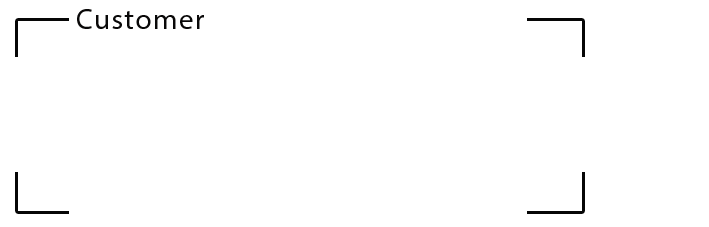
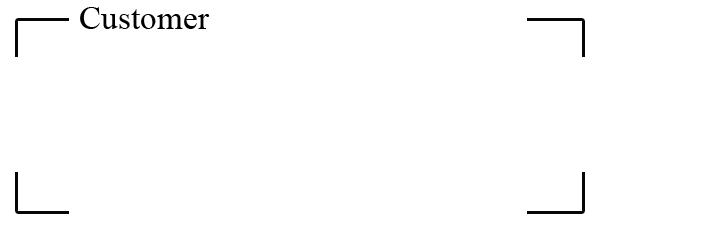
Perbaikan Font OP
Perbaikan Font OP

Changed region(s): [[0.0931, 0.0308, 0.3103, 0.1542]]

diff --git a/views/order-preparation/print/op.php b/views/order-preparation/print/op.php
@@ -8,6 +8,7 @@ use yii\helpers\Url;
 		width: 200mm;
 		margin-left: auto; margin-right: auto;
 		page-break-after: always;
+		font-family: Arial, Helvetica, sans-serif;
 	}
 	table{
 		/* border-top: 1px solid black;
@@ -17,6 +18,7 @@ use yii\helpers\Url;
 		border: 1px solid black;
 		margin-left: auto; margin-right: auto;
 		page-break-after: always;
+		font-family: Arial, Helvetica, sans-serif;
 	}
 	.header{
 		height: 10%;
@@ -59,18 +61,20 @@ use yii\helpers\Url;
 		font-size: 24px;
 		font-weight: bold;
 		margin-left: 16px;
-		margin-top: -5px;
+		margin-top: 0px;
 		/*position: absolute;*/
+		font-family: Times New Roman;
 		float: left;
 		text-decoration: underline;
 	}
 	.yth{
-	 	display: block;
-	    float: left;
-	    font-size: 13px;
-	    margin-left: 16px;
-	    margin-top: 12px;
-	    width: 50%;
+		display: block;
+		float: left;
+		font-family: Times New Roman;
+		font-size: 14px;
+		margin-left: 16px;
+		margin-top: 12px;
+		width: 50%;
 	}
 	.customer{
 		float: right;
@@ -97,8 +101,9 @@ use yii\helpers\Url;
 	}
 	.isicus{
 		display: block;
-		margin-top: 15px; margin-left: 10px;
-		font-size: 13px;
+		font-size: 12px;
+		margin-left: 10px;
+		margin-top: 22px;
 	}
 	.content{
 		margin-left: 15px;
@@ -109,10 +114,11 @@ use yii\helpers\Url;
 		border-collapse: collapse
 	}
 	.headtablepages tr th{
-		text-align: center;
 		border: 1px solid black;
+		font-family: Times New Roman;
+		font-size: 13px;
 		line-height: 30px;
-		font-size: 18px;
+		text-align: center;
 	}
 	.content tr td{
 		border: 1px solid black;
@@ -122,23 +128,27 @@ use yii\helpers\Url;
 		border-bottom:1px solid black;
 	}
 	.tablefooter td{
+		border: medium none !important;
+		font-family: Times New Roman;
+		font-size: 11px;
 		text-align: center;
-		border: none !important;
-		font-size: 13px;
 	}
 	.isigudang{
-		margin-top:10px;
+		margin-top:35px;
 		margin-left: 40px;
 		text-align: left;
 		font-weight: bold;
+		font-family: Times New Roman;
 	}
 	.gudang{
 		margin-left: 40px;
 		border: none;
+		font-family: Times New Roman;
 	}
 	.gudang td{
 		line-height: 30px;
 		border: none !important;
+		font-size: 12px;
 
 	}
 	.data{
@@ -154,7 +164,8 @@ use yii\helpers\Url;
 	}
 	.tablecontent{
 		line-height: 30px;
-		font-size: 13px;
+		font-size: 11px;
+		font-family: Times New Roman;
 	}
 	@media all {
 		.page-break	{ display: none; }
@@ -195,7 +206,7 @@ use yii\helpers\Url;
 		border-right:  1px solid black;
 		border-collapse: collapse;
 		line-height: 25px;
-		font-size: 13px;
+		font-size: 12px;
 		vertical-align: top;
 	}
 	.leftdata{
@@ -219,7 +230,13 @@ use yii\helpers\Url;
 		width:400px; float:left;  margin-left: 15px;margin-top: -9px;
 	}
 	.tblkirim{
-		float: left;margin-left: 0px;margin-top: -1px; margin-left:15px; border-collapse: collapse;  line-height: 30px;
+		border-collapse: collapse;
+		float: left;
+		font-family: Times New Roman;
+		font-size: 12px;
+		line-height: 30px;
+		margin-left: 15px;
+		margin-top: -1px;
 	}
 	.dataiso{
 		text-align: center;
@@ -283,7 +300,7 @@ use yii\helpers\Url;
 								<div class="customer">
 									<fieldset>
 										<div class="isicus">
-										<?php echo $model->partner->name; ?><br/>
+										<b><?php echo $model->partner->name; ?></b><br/>
 										<?php echo $model->partner->street; ?><br/>
 											021-2591818<br/>
 										</div>
@@ -393,10 +410,11 @@ use yii\helpers\Url;
 								<table class="tblkirim">
 									<tr>
 										<td width="220px" style="border:1px solid black; ">
-											No SJ :
+											<div style="margin-left:10px;">No SJ :</div>
 										</td>
 										<td class="tglkirim" style="border:1px solid black; ">
-										Tgl Kirim :
+
+											<div style="margin-left:10px;">Tgl Kirim :</div>
 										</td>
 										<td>
 
